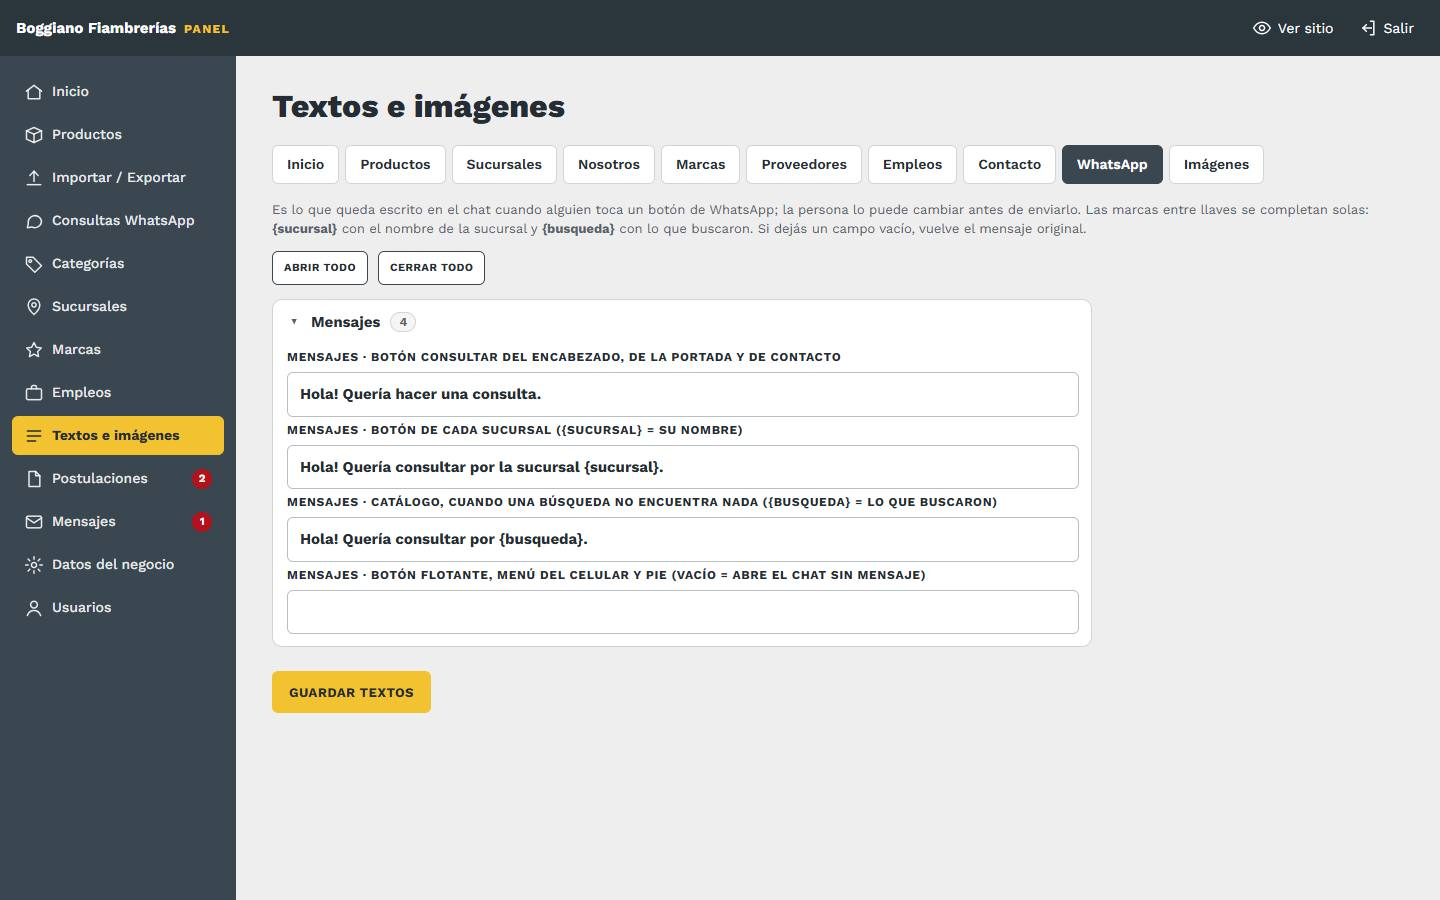
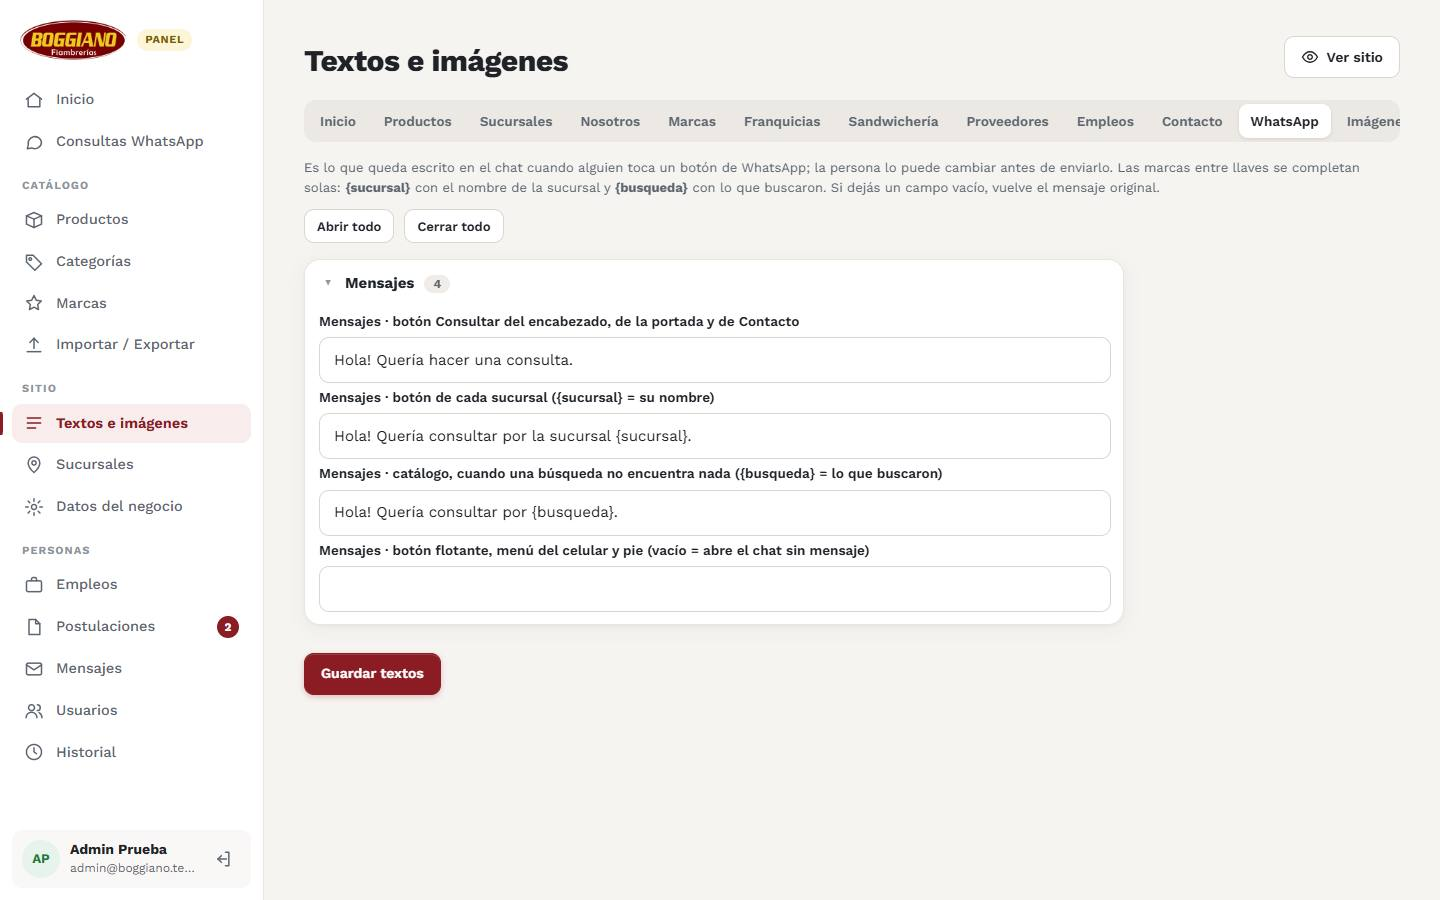
Guía: panel renovado (capturas nuevas, menú agrupado, Inicio con gráfico, Empleos en tarjetas, interruptor y − / +)

Changed region(s): [[0.0, 0.0, 1.0, 1.0], [0.9375, 0.1244, 0.9688, 0.1556], [0.875, 0.1244, 0.9062, 0.1556]]

diff --git a/guia/08-empleos-y-postulaciones.md b/guia/08-empleos-y-postulaciones.md
@@ -4,16 +4,16 @@
 
 ## Búsquedas abiertas
 
-**En el panel:** menú **Empleos**.
+**En el panel:** menú **Empleos**. Cada búsqueda es una tarjeta con su zona, si está abierta o cerrada y cuántas postulaciones tiene. **Nueva búsqueda** está arriba a la derecha y en la última tarjeta.
 
 ![Empleos](../img/empleos.jpg)
 
 | Campo | Qué va |
 |---|---|
 | **Puesto** | Ej: "Atención al público" |
-| **Zona / sucursal** | Dónde es el puesto |
+| **Zona o sucursal** | Dónde es el puesto |
 | **Detalle** | Tareas, requisitos, horario |
-| **Búsqueda abierta** | Tildada se muestra en el sitio; destildada queda cerrada |
+| **Búsqueda abierta** | Interruptor: prendido (verde) se muestra en el sitio; apagado queda cerrada |
 | **Orden** | Posición (menor primero) |
 
 ![Editar búsqueda](../img/empleo-editar.jpg)
@@ -31,7 +31,7 @@ Quien se postula puede marcar **varios puestos a la vez**: por ejemplo, Cajero/a
 
 ![Puestos en el formulario](../img/sitio-empleos-puestos.jpg)
 
-- **Cuántos puede marcar:** arriba de la lista de Empleos, en **"Quien se postula puede elegir hasta __ puestos"**. Viene en **3**; va de 1 a 10. Con **1**, elige un solo puesto, como antes.
+- **Cuántos puede marcar:** arriba de las búsquedas en Empleos, en el recuadro **"Puestos por postulación"**: subilo o bajalo con **−** y **+** y tocá **Guardar**. Viene en **3**; va de 1 a 10. Con **1**, elige un solo puesto, como antes.
 - **En el sitio,** el formulario dice "elegí hasta 3" (o el número que pongas). Al llegar al tope, los demás puestos quedan en gris hasta que desmarque alguno.
 - **El botón Postularme** de cada búsqueda deja ese puesto marcado en el formulario.
 
@@ -41,7 +41,7 @@ Quien se postula puede marcar **varios puestos a la vez**: por ejemplo, Cajero/a
 
 ![Postulaciones](../img/postulaciones.jpg)
 
-- **Filtrar por puesto:** los botones de arriba. Una postulación a varios puestos cuenta en cada uno: la de Cajero/a, Atención al público y Repositor/a aparece en esas tres pestañas. En Empleos, la columna **Postulaciones** cuenta igual.
+- **Filtrar por puesto:** los botones de arriba. Una postulación a varios puestos cuenta en cada uno: la de Cajero/a, Atención al público y Repositor/a aparece en esas tres pestañas. En Empleos, el número de postulaciones de cada tarjeta cuenta igual (tocalo para ver esas postulaciones).
 - **Ver:** abre el detalle, con nombre, mail, teléfono, puestos elegidos, experiencia, fecha y el CV. Al abrirla, se marca como leída.
 - **CV:** lo descarga directamente.
 - **Marcar como no leída:** para acordarte de volver a verla.
@@ -57,4 +57,4 @@ Quien se postula puede marcar **varios puestos a la vez**: por ejemplo, Cajero/a
 
 - **Dónde quedan los CV:** en un lugar **privado** del servidor. No se pueden abrir desde internet: solo se descargan desde el panel.
 - **Ley 25.326:** los CV son datos personales protegidos por la Ley de Protección de Datos Personales. Si alguien pide que borren sus datos, borrá su postulación.
-- **Borrado automático:** arriba de la lista de Postulaciones elegís cada cuántos meses se borran solas las postulaciones viejas, con su CV. Viene en **12 meses**, y **0** es no borrar nunca. Se hace sola una vez por día, la primera vez que alguien entra al panel. Al guardar un plazo nuevo, se borran en el momento las que ya lo superaron.
+- **Borrado automático:** arriba de la lista de Postulaciones, en el recuadro **Borrado automático**, elegís con **−** y **+** cada cuántos meses se borran solas las postulaciones viejas, con su CV. Viene en **12 meses**, y **0** es no borrar nunca. Se hace sola una vez por día, la primera vez que alguien entra al panel. Al guardar un plazo nuevo, se borran en el momento las que ya lo superaron.

diff --git a/guia/01-entrar-al-panel.md b/guia/01-entrar-al-panel.md
@@ -13,11 +13,14 @@
 
 ![Inicio del panel](../img/inicio-panel.jpg)
 
-- **Arriba:** los cuadros muestran cuántas **postulaciones** y **mensajes nuevos** hay. Si hay alguno, el número sale en rojo. Tocá el cuadro para ir directo.
+- **Arriba:** los cuadros muestran cuántas **postulaciones** y **mensajes sin leer** hay (con la marca **Nuevo** si hay alguno), cuántos productos se ven y cuántas consultas por WhatsApp hubo en la semana. Tocá un cuadro para ir directo.
+- **Consultas por WhatsApp:** el gráfico de los últimos 14 días; el día de hoy va en bordó. Al lado del total, cuánto subió o bajó contra los 14 días anteriores. Tocá el gráfico para ver el detalle.
+- **Accesos rápidos:** nuevo producto, subir fotos, nueva búsqueda y horarios de las sucursales.
 - **Avisos:** te recuerda si el sitio sigue con la barra "Sitio en construcción" y cuántos productos no tienen foto.
-- **Menú:** en la computadora está a la izquierda. En el celular es una barra que se desliza de costado, debajo del título.
-- **Números rojos en el menú:** al lado de *Postulaciones* y *Mensajes* indican lo que todavía no abriste.
-- **Arriba a la derecha:** **Ver sitio** abre la web en otra pestaña, y **Salir** cierra la sesión.
+- **Últimas postulaciones y últimos mensajes:** el punto bordó al lado del nombre marca lo que todavía no abriste.
+- **Menú:** en la computadora está a la izquierda, agrupado en **Catálogo**, **Sitio** y **Personas**. En el celular se abre con el botón **☰** de arriba a la izquierda y se cierra tocando afuera.
+- **Números en el menú:** al lado de *Postulaciones* y *Mensajes* indican lo que todavía no abriste.
+- **Ver sitio** (arriba a la derecha) abre la web en otra pestaña. **Salir** es el ícono de la flecha, abajo del menú, al lado de tu nombre.
 
 ## Bueno saber
 
